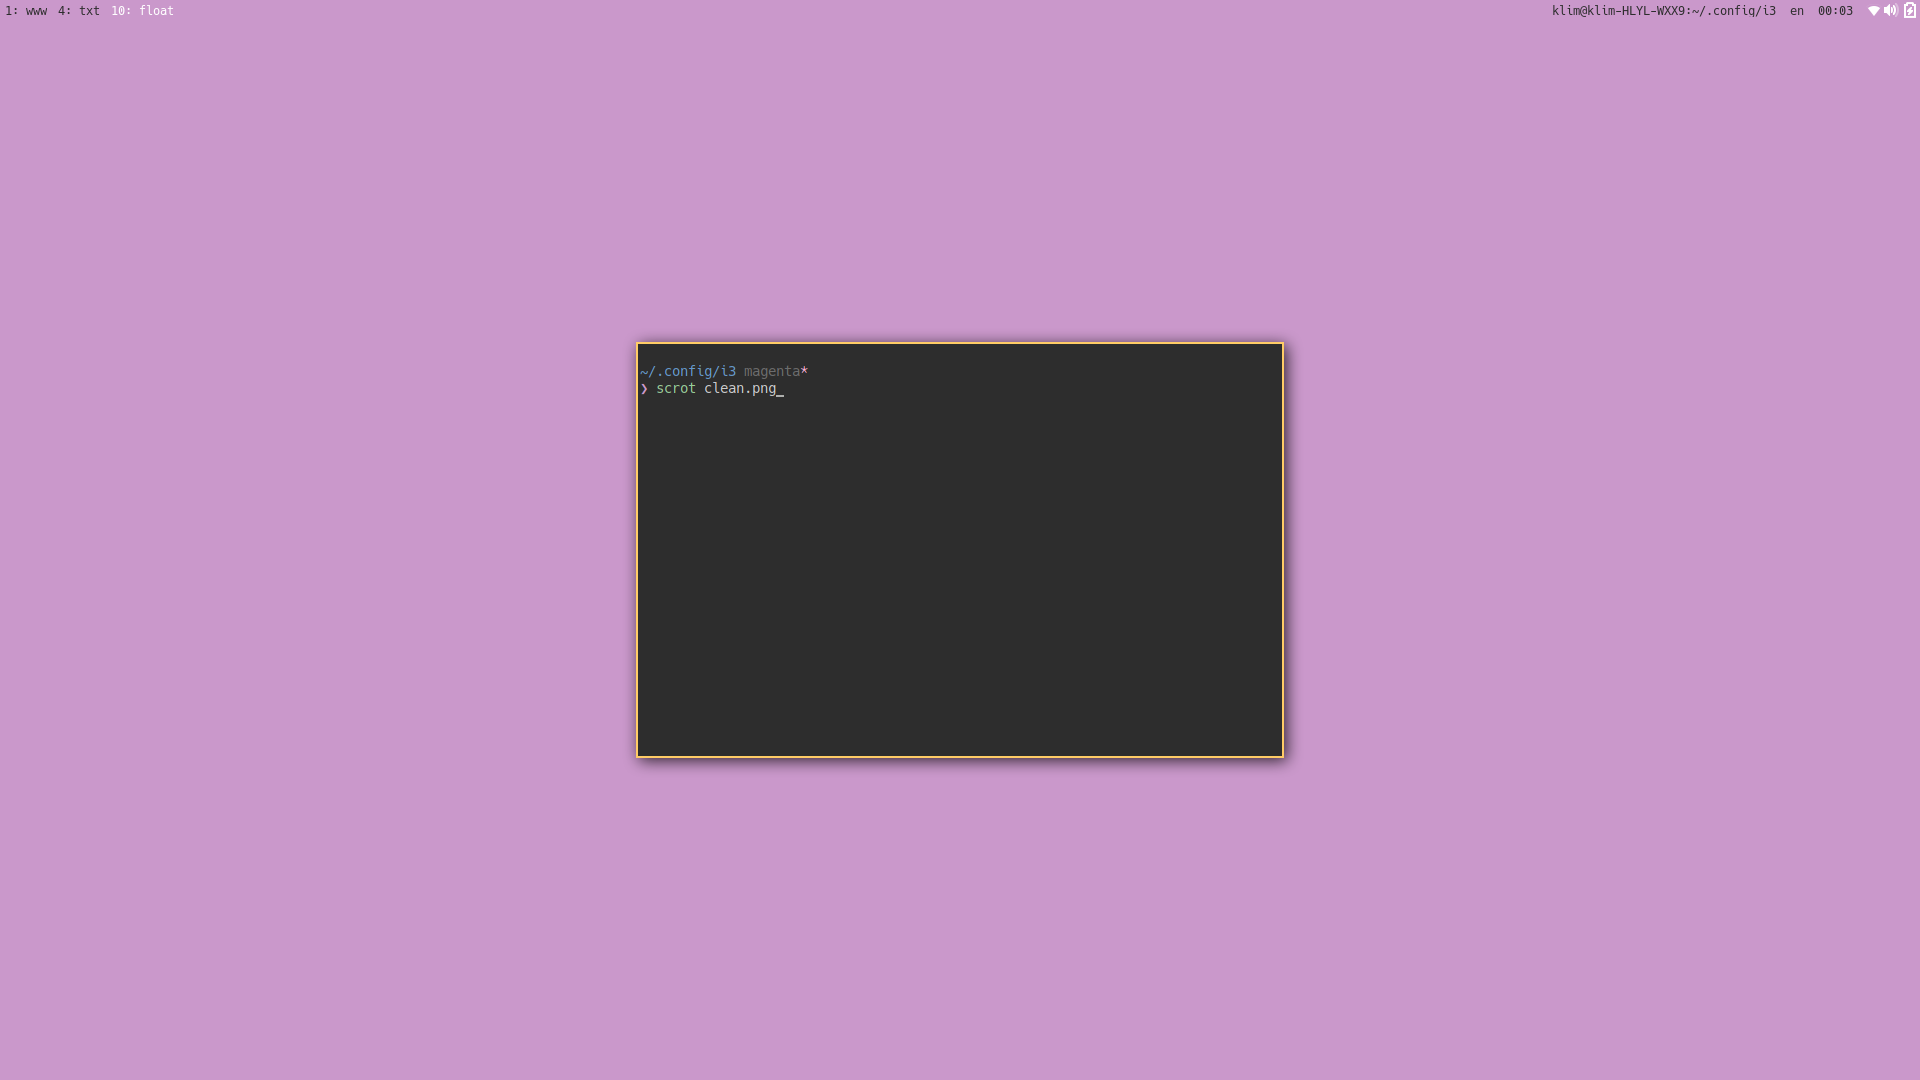
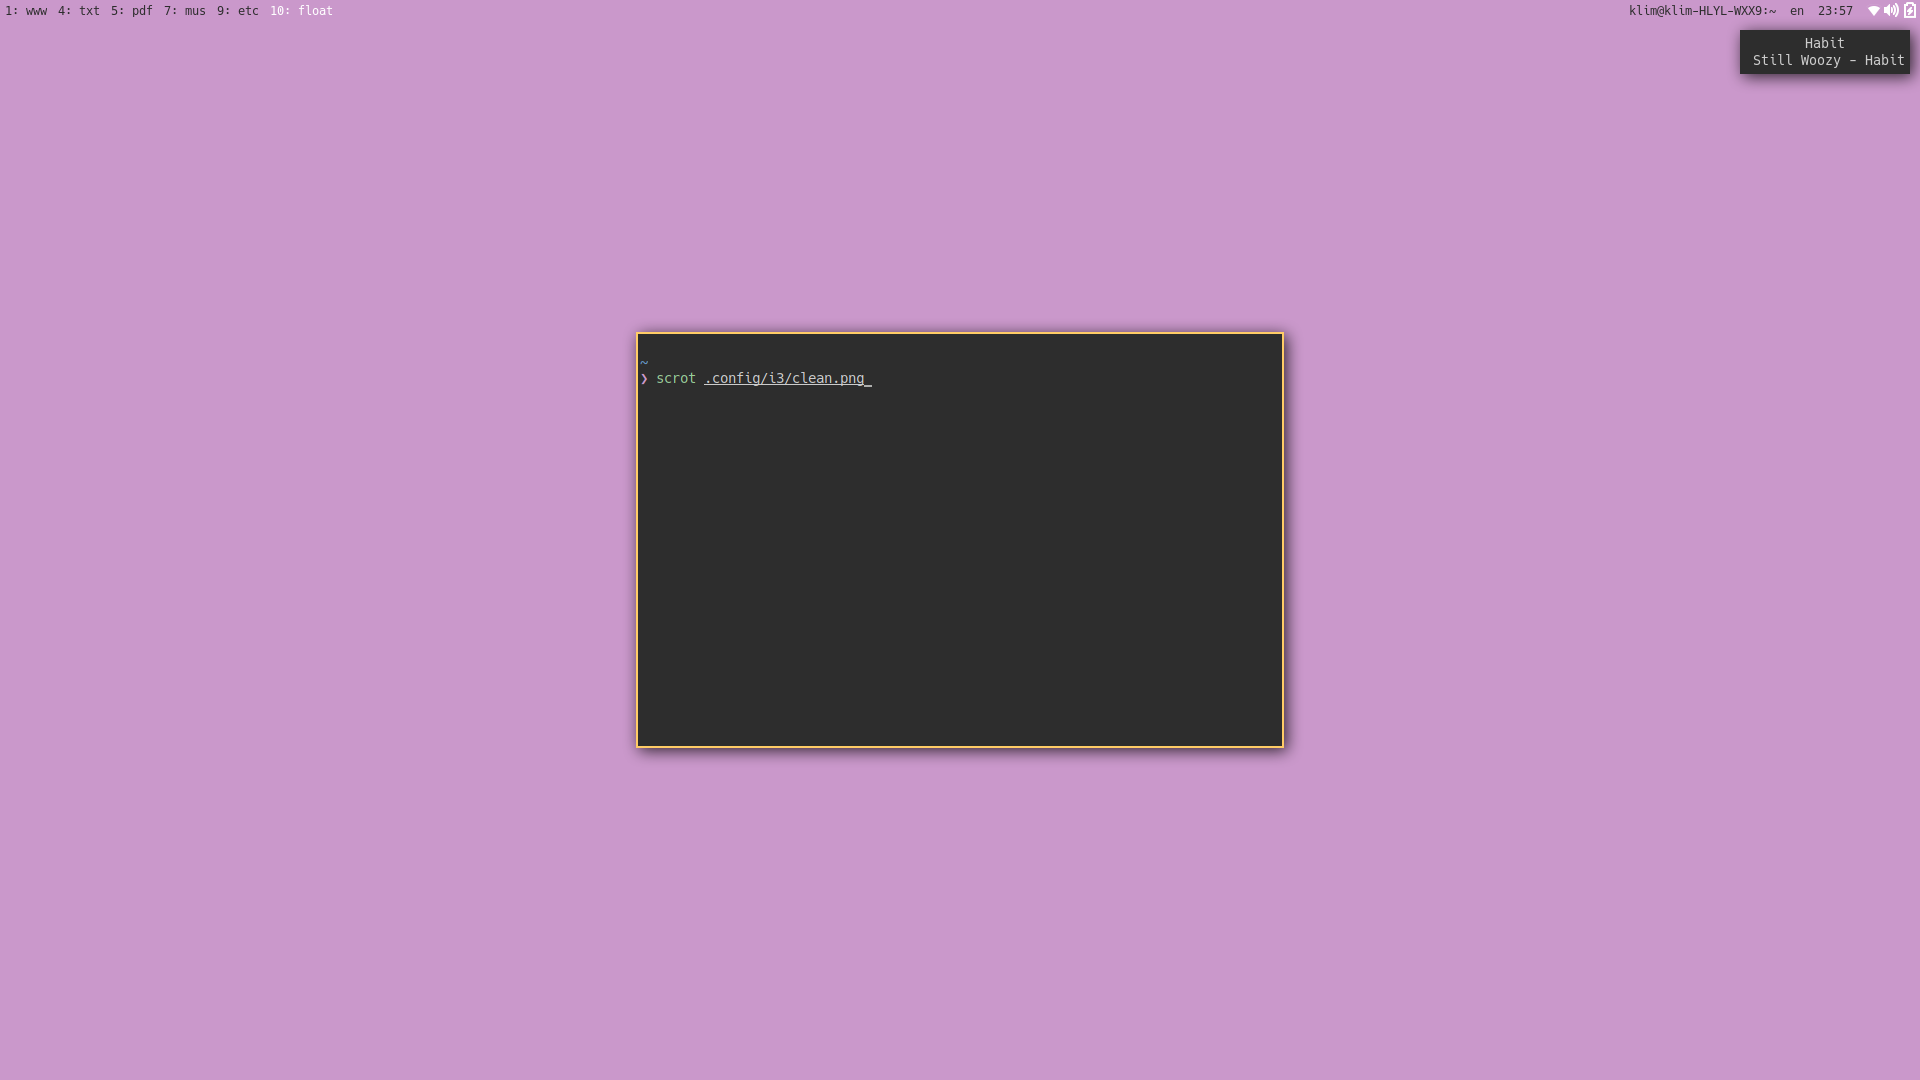
modified first screenshot

diff --git a/README.md b/README.md
@@ -33,7 +33,7 @@ Most of scripts and many config parts I've just found on the internet 👉👈
 
 ## Some screenshots
 
-Clean
+Floating workspace showing i3bar and notification
 ![clean](clean.png)
 
 Chrome, Nautilus, pfetch
